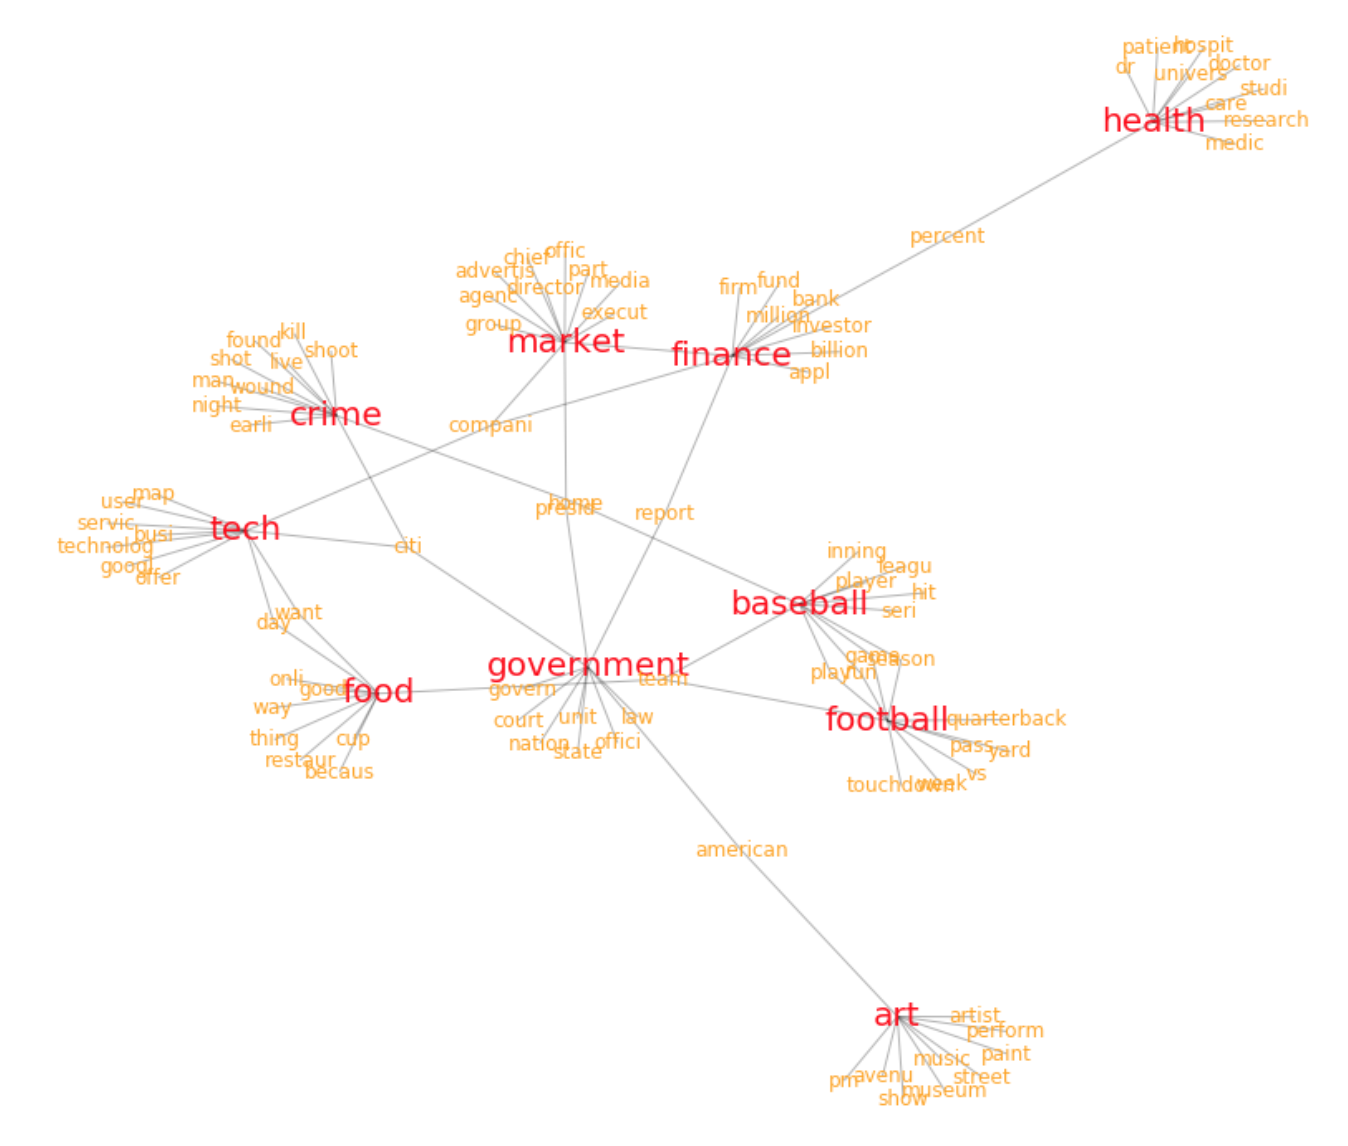
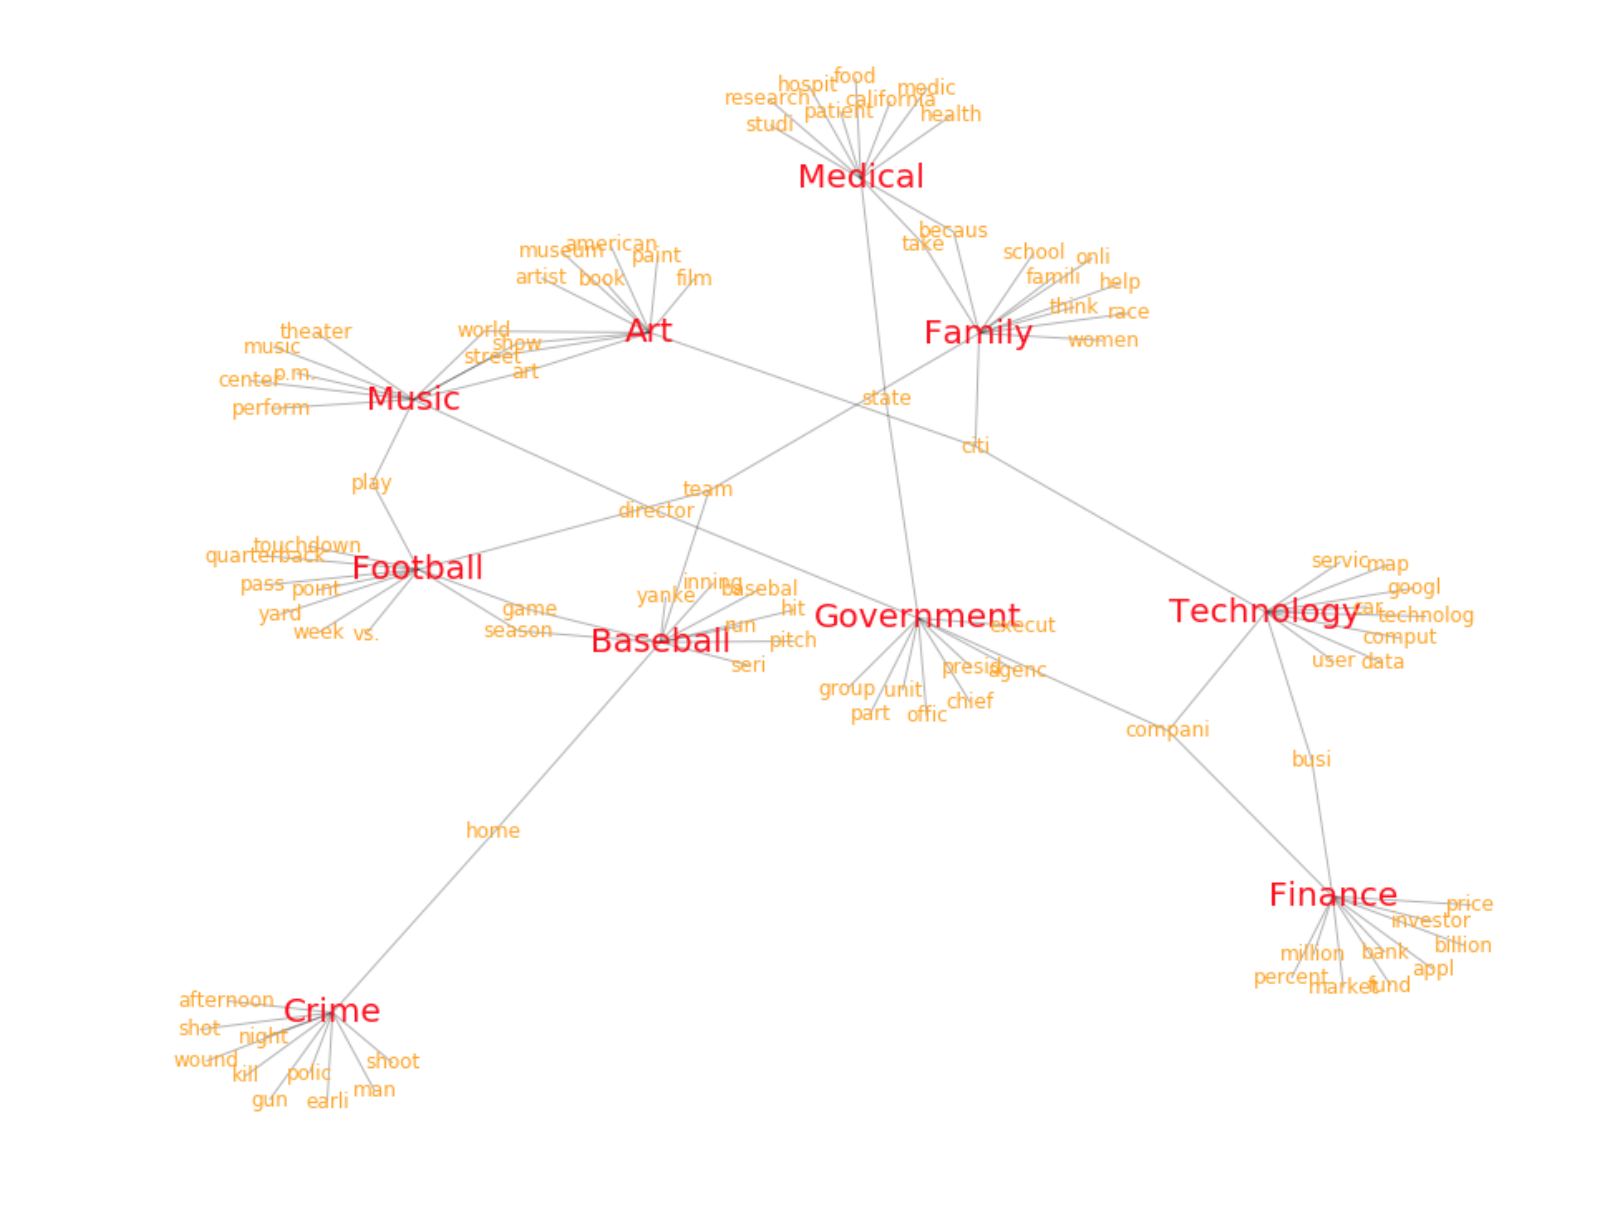
blog update

diff --git a/_posts/2016-4-15-Natural_language_processing_project_Metis.md b/_posts/2016-4-15-Natural_language_processing_project_Metis.md
@@ -1,0 +1,78 @@
+---
+layout: post
+title: Topic modeling of San Francisco
+---
+
+## Motviation
+News is very important. A lot of important decisions are made based on the latest news. With the technology today, we are able to access all kinds of news resource or social media, such as Twitter, SFGate, New York Times, very easily. But the problem is it becomes very unlikely that a person can read all the news everyday in a limited amount of time. And this is why we need machine learning to help us to do the work.
+
+In this project, I am trying to use topic modeling to capture the evolution of news topics in San Francisco from 2013 to 2015.
+
+## Topic modeling
+Topic modeling is one of the important subjects of natural language processing. The goal of topic modeling is to capture the topics from a set of documents and cluster the documents by their topics. The basic methods for topic modeling include: LSI (Latent semantic indexing ), NMF (Non-negative matrix factorization), LDA (Latent Dirichlet allocation) and so on.
+Due to the fact that LDA doesn't have to deal with large matrix processing (SVD), it has the fastest process speed and has the most protential to achieve dynametic (real-time) topic modeling. It is also the method that will be used in this project.
+
+## Basic idea of LDA 
+The theoretical detail of LDA will not be discussed in this blog. But the basic idea of LDA is that, it assumes a document is characterized by a particular set of topics and a topic is characterized by a distribution of words. Both the topics in a document and words in a topics follow the Dirichlet distribution. For any word in a document, it comes from a Multinomial trail of topics and words.
+By doing LDA analysis, we will be able to get a probability distribution of topics in each document and also a probability distribution of words in each topic.
+
+## Data source
+The data of this project came from the New York Times API. With time range 2013 to 2015 and search query of San Francisco, about 10300 news articles were obtained.
+Please check the ipython notebook for the code of getting the data ()
+
+## Preprocessing
+Preprocessing is a very important part of topic modeling. In this project, preprocessing includes tokenizing, filtering numbers and date, filtering stop words and stemming. I also started with filtering words in more than 75% or less than 10 of the documents.
+During the process of training the model, stop words were updated and different word-filtering parameters were tested.
+The code for token processing is also in the ipython notebook
+
+## Topic modeling
+After preprocessing, it is time to do the topic modeling. Python package gensim is used to achieve this process. For each document, we will get the probabilities of each topics within this document. Because topic modeling is an unsupervised learning process, the most difficult part is to decide the number of topics.
+
+### Choosing the number of topics
+One of the popular method of choosing the number of topics is based on the perplexity. Perplexity (https://en.wikipedia.org/wiki/Perplexity) is taken from information theory and measures how well a probability distribution predicts an observed sample. The smaller the perplexity, the better the model.
+
+In this project, I splited the documents into training and testing sets. Then I train the model with different number of topics and calculated the perplexity on the test set. Usually the perlexity gets smaller with more topics and we need to find the balance between number of topics and perplexity: find the lbow point. Unfortunately, as shown below, I didn't see the lbow point even the number of topics went to 200. 
+
+![_config.yml]({{ site.baseurl }}/images/plot1.png)
+
+As the method of using perlexity was not useful for this project, I have to manully check the topics. Actually, in my opinion, there is no correct answer of how many topics there are. Several small topics can be grouped into a bigger topic and a big topic can be seperated into several small topics. For example, the topic of sports can be seperated into football and baseball.
+In this project, I tried to choose the number of topics so that all the topics talked about very different things.
+
+In python, there is a package called gensimvis (https://github.com/bmabey/pyLDAvis) which helps us to evaluate the topics very easily. This packges allows us to visualize the topics in a 2D plane. The distance between the topics is calculated based on the Jensen-Shannon divergence distance metric. As mentioned above, the assumption of LDA is that one topic is a distribution of terms. Jensen-Shannon divergence (JSD) is a metric that can be used to calculate the distance of two distributions. (https://en.wikipedia.org/wiki/Jensen–Shannon_divergence)
+This package also has a nice interactive chart that shows the top 30 terms in each topic.
+
+With the help of gensimvis and after trying different number of topics with different word-filtering parameters, I finally chose the number of topics to be 10. The 2D plot of the topics with gensimvis were shown below.
+
+![_config.yml]({{ site.baseurl }}/images/plot2.png)
+
+The topics were:
+Art;                                 
+Music;
+Medical;
+Technology;
+Football;
+Government;
+Baseball;
+Family;
+Finance;
+Crime
+
+### Word cloud
+Word cloud is a nice way to look at the words in topics. In word cloud, a word with higher probability has bigger size.
+The plot below shows the words of 3 topics with the top 30 words using word cloud.
+
+![_config.yml]({{ site.baseurl }}/images/plot3.png)
+
+### Topic-word network
+We can also visualize the network of topics and words. From the network we can see how different topics connect with each other with common words. The network below shows the topics with top 10 words.
+
+![_config.yml]({{ site.baseurl }}/images/plot3.png)
+
+## Topic evolution
+After deciding the topics, it is time to study the evolution of topics vs. time. Keeping in mind that each document has more than one topics, I didn't assign the articles to one topic that has the highest probability. Instead, I considered the contribution of this article to all the topics by getting the probabilities of all the topics in this article. The plot below shows the evolution of three topics. 
+The topics about baseball show very clear seasonal change. The topic about technology kept a very high level because San Francisco has a lot of tech companies.
+
+![_config.yml]({{ site.baseurl }}/images/plot4.png)
+
+## Conclusion
+Topic modeling by computer itself is not an easy task. In this project, there was still a lot of manual work involved, especially choosing the number of topics. If the topics doesn't change, it is ok to train the documents once, find the right number of topics and when a new document comes, just find the topic distribution using the trained model. But if we need to abandan old topics and find new topics as the time goes, we must find a good way that allows computers to decide the number of topics automatically.
